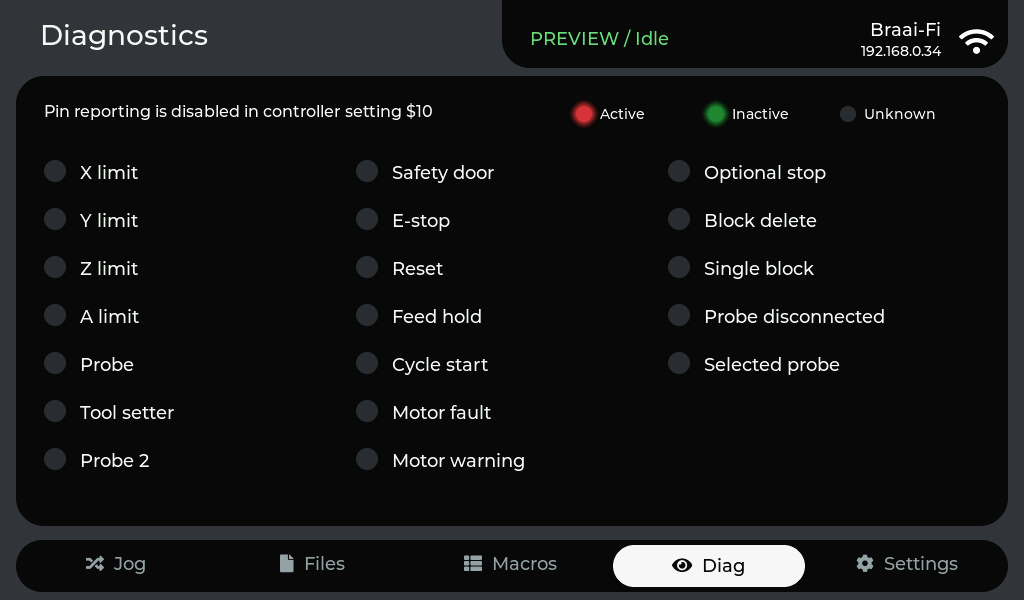
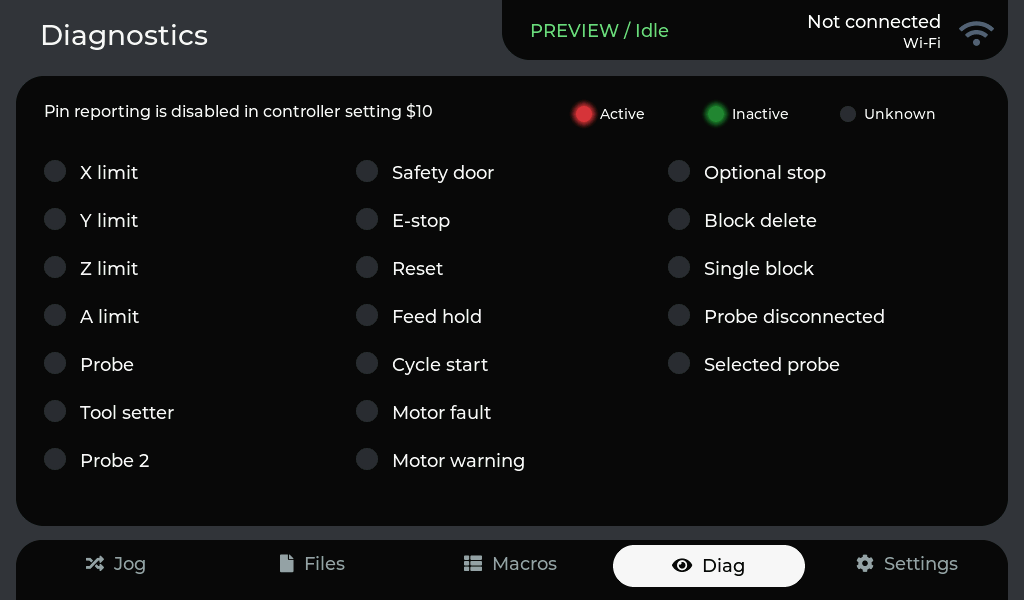
Dock navigation to bottom bezel and raise status header

Changed region(s): [[0.0, 0.96, 1.0, 1.0], [0.5, 0.03, 1.0, 0.12], [0.4688, 0.06, 0.5, 0.09]]

diff --git a/tools/check-diagnostics.py b/tools/check-diagnostics.py
@@ -67,7 +67,7 @@ try:
         tap(x, 566)
         d = data()
         assert d['page'] == page and d['dialog'] == 'none'
-        assert tuple(d[k] for k in ('header_x', 'header_y', 'header_w', 'header_h')) == (502, -28, 506, 96)
+        assert tuple(d[k] for k in ('header_x', 'header_y', 'header_w', 'header_h')) == (502, -36, 506, 96)
         idle()
         shot(name)
     tap(691, 566)

diff --git a/docs/concepts/design-qa.md b/docs/concepts/design-qa.md
@@ -1,6 +1,6 @@
 # Jog card concept
 
-An experimental Jog screen and floating navigation dock for the 1024 × 600 LCD.
+An experimental Jog screen and bottom navigation dock for the 1024 × 600 LCD.
 The existing control handlers and dialogs remain in place. Files now shares this
 style; see [Files design](files-design-qa.md) and [Macros design](macros-design-qa.md).
 
@@ -13,7 +13,7 @@ style; see [Files design](files-design-qa.md) and [Macros design](macros-design-
 | Black cards on graphite | Native LVGL rounded rectangle cards; custom shoulder drawing removed |
 | Large clean numeric typography | Roboto Condensed 52 px for work coordinates and aligned XYZ labels; machine positions sit directly below their work values |
 | Selective vivid accents | Lime selected mode, coral X, mint Y, cyan Z; neutral action pads including Probe |
-| Floating pill navigation | Black dock, white active pill, icons and 18 px labels |
+| Bezel-attached pill navigation | Black dock, white active pill, icons and 18 px labels |
 | Uncluttered widgets | Existing homing, zeroing, WCS and motion controls retained in two groups |
 
 The phone-sized references guide shape, contrast and typography. Controls remain
@@ -58,3 +58,7 @@ The custom card-shape draw callbacks have been removed. Tab slides retain the
 existing 220 ms animation and use native rounded rectangle rendering. An
 intermittent framebuffer-capture reset recurred during verification; it remains
 unresolved and is separate from a successful navigation check.
+
+The bottom dock extends beyond the lower screen edge. Extra bottom padding keeps
+the pills, icons and labels at their existing positions. The shared status/Wi-Fi
+card and all its contents are raised 8 px while remaining attached to the top bezel.

diff --git a/AGENTS.md b/AGENTS.md
@@ -479,7 +479,9 @@ CNC dock centres are x=116/314/512/710/908 at y=566. Actuator mode hides Files
 and Macros but keeps Diagnostics. Input diagnostics lives on this read-only
 page, not a Settings row or modal. Retain unknown/stale and pin-reporting states.
 
-The shared status/Wi-Fi card is a native rounded rectangle at (502,-28),
+The shared status/Wi-Fi card is a native rounded rectangle at (502,-36),
 506x96 with radius 28. Its upper corners sit off-screen so it joins the bezel.
-Keep its bottom edge at y=68 and its text/icon at their current visible positions;
+Keep its bottom edge at y=60; the status and Wi-Fi contents sit 8 px above their
+original positions. The bottom dock is (16,540), 992x96 with radius 26 and 49 px
+bottom padding, extending off-screen while its pills remain at y=545, height 42;
 use normal screen clipping, without a canvas or custom raster drawing.

diff --git a/docs/concepts/macros-design-qa.md b/docs/concepts/macros-design-qa.md
@@ -2,7 +2,7 @@
 
 ![Macro library](macros-card-concept.png)
 
-The library uses the same black rounded rectangle card and floating dock as Files.
+The library uses the same black rounded rectangle card and bottom dock as Files.
 Square macro buttons have a wide colored left strip and a separate pencil action.
 The macro name is shown without a play icon. Add remains above the card.
 

diff --git a/docs/concepts/files-design-qa.md b/docs/concepts/files-design-qa.md
@@ -1,7 +1,7 @@
 # Files card design
 
 The Files library and preview share the Jog screen's graphite background, black
-rounded rectangle card, floating dock and status/Wi-Fi card.
+rounded rectangle card, bottom dock and status/Wi-Fi card.
 
 | Library | Rendered preview |
 | --- | --- |
